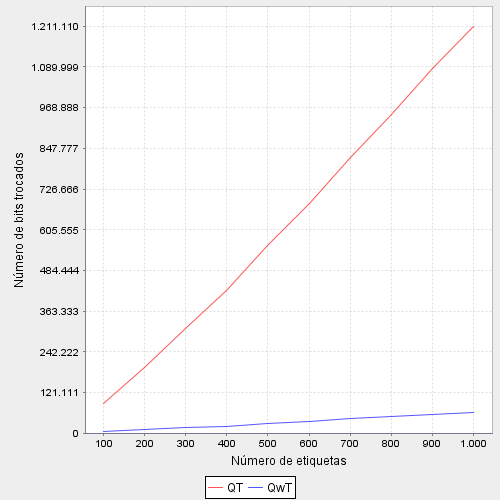
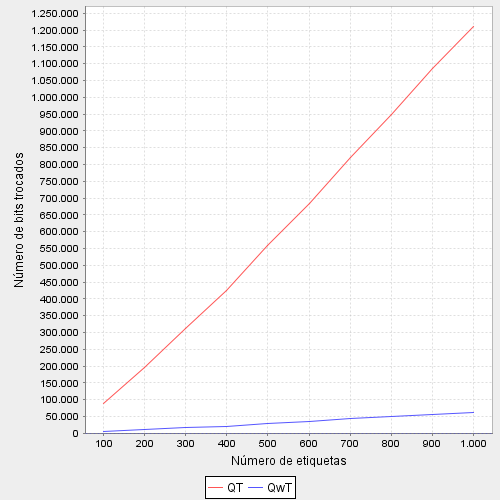
Pequenas correções nos gráficos

Changed region(s): [[0.06, 0.0, 0.18, 0.84]]

diff --git a/src/charts/LineChartTree.java b/src/charts/LineChartTree.java
@@ -32,10 +32,6 @@ public class LineChartTree {
 		xyPlot.setDomainCrosshairVisible(true);
 		xyPlot.setRangeCrosshairVisible(true);
 
-		//Calculando o intervalo entre os valores do eixo Y
-		NumberAxis domain = (NumberAxis) xyPlot.getDomainAxis();
-		domain.setTickUnit(new NumberTickUnit((int)chart.getData()[9][0]/10));
-
 		NumberAxis yAxis = (NumberAxis) xyPlot.getRangeAxis();
 		yAxis.setAutoRangeIncludesZero(false);
 
